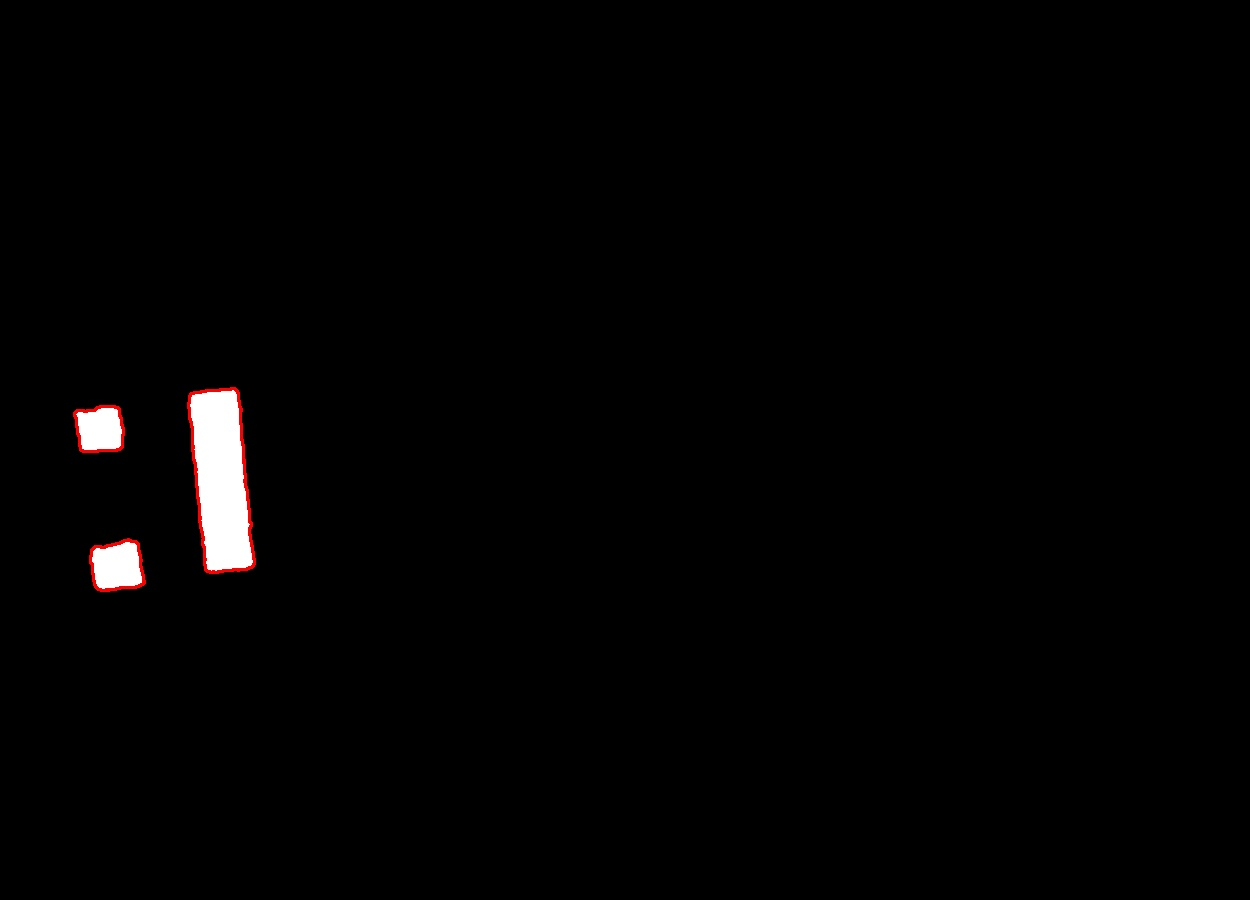
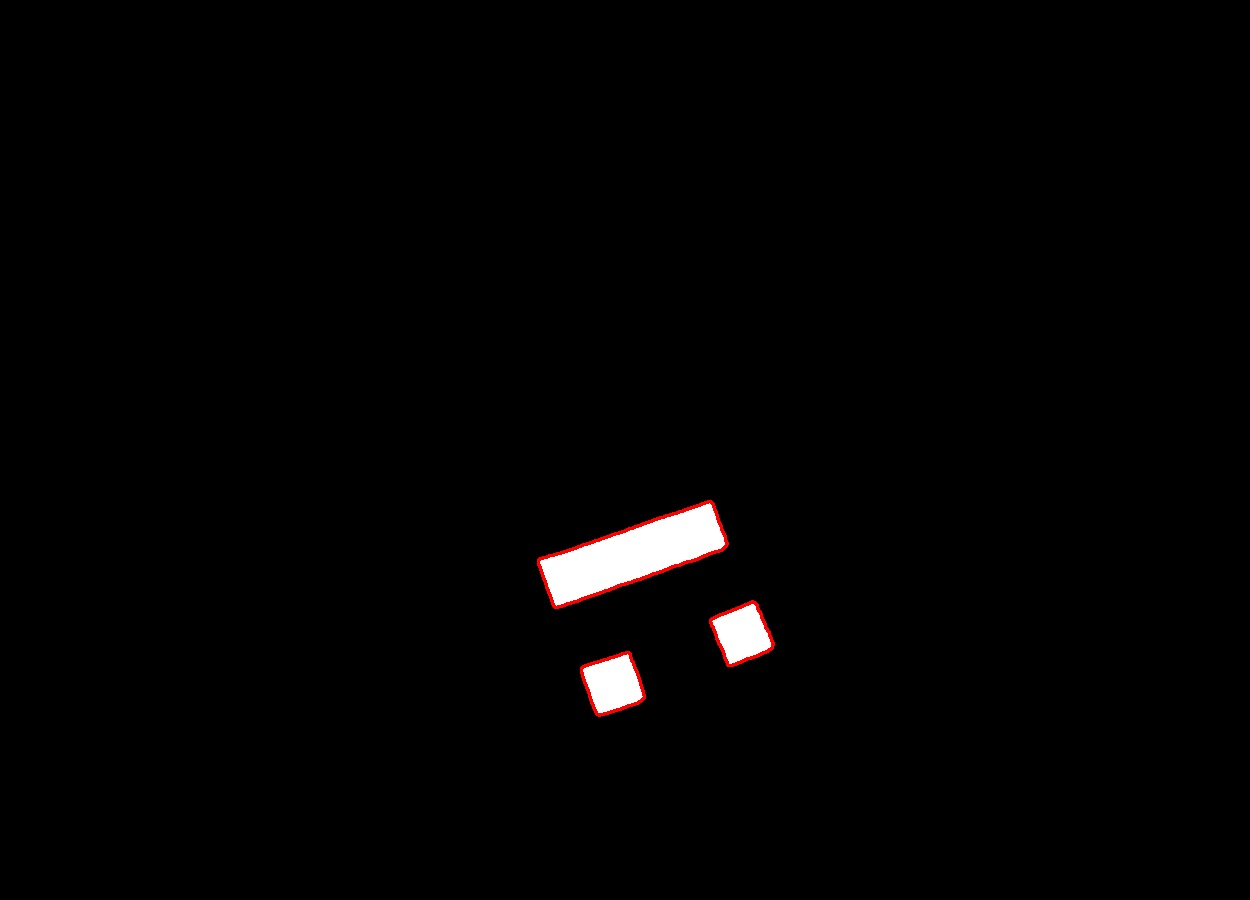
Logik er fikset til move_to_target og det virker nu (ish) der skal pilles ved noget threshold osv...

diff --git a/algorithm/move_to_target.py b/algorithm/move_to_target.py
@@ -39,7 +39,9 @@ def move_to_target(target_position):
     car = get_car_data_from_json(json_file_path)
     # Extract the current position from the car object
     current_x, current_y = car.x, car.y
-    
+    # add the x,y such that we go out to the pickup mechanism
+   
+
     # De-structure the target position
     target_x, target_y = target_position
     #print(f"Target_x = {target_x}\nTarget_y = {target_y}")
@@ -52,62 +54,78 @@ def move_to_target(target_position):
     comswallow = (0,0,0,1,0)
 
     # Move in the y direction
-    threshhold = 20
+    threshhold = 30
+    missing_length = 0
 
-    if current_y+125 < target_y - threshhold: #Hvis vores y er skarpt mindre end hvor vi skal hen-20 (hvilket burde resultere i at vi stopper cirka 20 pixels før.)
-    #vi skal altså op ad /\ (robot y er mindre end target, altså er robot tættere på 0,0)
-        if not((car.angle < 0+threshhold) or (car.angle > 360-threshhold)): #angle ligger ikke(mellem 340 og 20 grader (cirka 0)) 
-            print("desired angle: 340-20, actual:", car.angle)
-            publish_controller_data(comtiltright) #vi vender os mod højre
+    if not(((((current_y+missing_length)>(target_y-threshhold)) and ((current_y+missing_length)<(target_y+threshhold))) or (((current_y-missing_length)>(target_y-threshhold)) and ((current_y-missing_length)<(target_y+threshhold))))):
+        print("missing in y-level")
+        if current_y < target_y: #Hvis vores y er skarpt mindre end hvor vi skal hen-20 (hvilket burde resultere i at vi stopper cirka 20 pixels før.)
+        #vi skal altså op ad /\ (robot y er mindre end target, altså er robot tættere på 0,0)
+            if  not(((car.angle < (0+threshhold)) or (car.angle > (360-threshhold)))): #angle ligger ikke(mellem 340 og 20 grader (cirka 0)) 
+                print("desired angle: 340-20, actual:", car.angle)
+                publish_controller_data(comtiltright) #vi vender os mod højre
+                sleep(0.2)
+                publish_controller_data(comstop)
+                return 0
+            print("We should move farwards")
+            publish_controller_data(comforward) #vi rykker 0.15 i y-retningen (opad)
             sleep(0.2)
             publish_controller_data(comstop)
             return 0
-        print("We should move farwards")
-        publish_controller_data(comforward) #vi rykker 0.15 i y-retningen (opad)
-        sleep(0.2)
-        publish_controller_data(comstop)
-        return 0
-    elif current_y-125 > target_y + threshhold: #Hvis vores y er skarpt større end hvor vi skal hen+20 (hvilket burde resultere i at vi stopper cirka 20 pixels før.)
-    #vi skal altså ned ad \/ (robot y er større end target, altså er bold tættere på 0,0)
-        if not((car.angle>180-threshhold) or (car.angle<180+threshhold)): #angle ligger ikke(mellem 170 og 190 grader(cirka 180))
-            print("desired angle: 170-190, actual:", car.angle)
-            publish_controller_data(comtiltright) #vi vender tilføjer grader indtil vi er på 180
+        elif current_y > target_y: #Hvis vores y er skarpt større end hvor vi skal hen+20 (hvilket burde resultere i at vi stopper cirka 20 pixels før.)
+        #vi skal altså ned ad \/ (robot y er større end target, altså er bold tættere på 0,0)
+            if not(((car.angle > (180-threshhold)) and (car.angle < (180+threshhold)))): #angle ligger ikke(mellem 170 og 190 grader(cirka 180))
+                print("desired angle: 170-190, actual:", car.angle)
+                publish_controller_data(comtiltright) #vi vender tilføjer grader indtil vi er på 180
+                sleep(0.2)
+                publish_controller_data(comstop)
+                return 0
+            print("We should move farwards 180")
+            
+            publish_controller_data(comforward) #vi rykker 0.15 i y-retningen (opad)
             sleep(0.2)
             publish_controller_data(comstop)
             return 0
-        print("We should move farwards 78")
-        
-        publish_controller_data(comforward) #vi rykker 0.15 i y-retningen (opad)
-        sleep(0.2)
-        publish_controller_data(comstop)
+        print("overshooted in y-level")
         return 0
     
     # Move in the x direction
     # nu er vores angle cirka 0 eller cirka 180: (340-20 eller 160-200)
 
-    if current_x > target_x+threshhold: #så skal vi til venstre
-        if not((car.angle < 90+threshhold) or (car.angle > 90-threshhold)):
-            publish_controller_data(comtiltleft) #hvis vi peger opad ved 0 grader, skal vi bare tilte mod venstre
+    #if not((current_x>target_x+missing_length) or (current_x<target_x)):    
+    if not(((((current_x-missing_length)>(target_x+threshhold)) and ((current_x-missing_length)<(target_x-threshhold))) or (((current_x+missing_length)>(target_x-threshhold)) and ((current_x+missing_length)<(target_x+threshhold))))):
+        print("missing in x-level")
+        if current_x > target_x: #så skal vi til venstre
+            if not(((car.angle < (90+threshhold)) and (car.angle > (90-threshhold)))):
+                publish_controller_data(comtiltleft) #hvis vi peger opad ved 0 grader, skal vi bare tilte mod venstre
+                sleep(0.2)
+                publish_controller_data(comstop)
+                return 0
+            publish_controller_data(comforward)
             sleep(0.2)
             publish_controller_data(comstop)
             return 0
-        publish_controller_data(comforward)
-        sleep(0.2)
-        publish_controller_data(comstop)
-        return 0
-    #så skal vi til højre
-    elif current_x < target_x-threshhold:
-        if not((car.angle < 270+threshhold) or (car.angle > 270-threshhold)): #hvis car.angle ikke(er mellem 250 og 290 (cirka 270))
-            publish_controller_data(comtiltright) #hvis vi peger med næsen opad, skal vi tilte mod bilens højre
+        #så skal vi til højre
+        elif current_x < target_x:
+            if not((car.angle < (270+threshhold)) and (car.angle > (270-threshhold))): #hvis car.angle ikke(er mellem 250 og 290 (cirka 270))
+                publish_controller_data(comtiltright) #hvis vi peger med næsen opad, skal vi tilte mod bilens højre
+                sleep(0.2)
+                publish_controller_data(comstop)
+                return 0
+            publish_controller_data(comforward)
             sleep(0.2)
             publish_controller_data(comstop)
             return 0
-        publish_controller_data(comforward)
-        sleep(0.2)
-        publish_controller_data(comstop)
+        #nu er current_y = target_y, current_x = target_x
+        print("overshooted in x-level...")
         return 0
-    #nu er current_y = target_y, current_x = target_x
+        
+    print("we're here!")
     publish_controller_data(comswallow) #og så skal der nedsvælges
     sleep(0.2)
     publish_controller_data(comstop)
     return 1
+
+
+
+

diff --git a/picture/image_detection.py b/picture/image_detection.py
@@ -712,6 +712,7 @@ def find_carv2(image, output_image_path='output_image.jpg'):
     # Ensure we have exactly one back contour and two front contours
     if len(front_contours) != 2:
         print("car is goone")
+        return
         #raise ValueError("Could not find the required front squares and back rectangle in the image.")
     
     # Calculate the center of the bounding box for all contours

diff --git a/algorithm/algorithm.py b/algorithm/algorithm.py
@@ -77,6 +77,7 @@ def SortByDistance(RobotXY=LoadRobot(), BallsXY=LoadBalls(), OrangeBallXY = Load
     
     # Add the orange ball at the end
     SortedList.append(OrangeBallXY)
+    print(f"Shortest ball coordinat: [{SortedList[0]}]")
     return SortedList[0]
 
 

diff --git a/run.py b/run.py
@@ -26,7 +26,7 @@ def init():
 
     # for arena transform calibration
     image = camera_handler._run_video()
-    find_corners(image)
+    #find_corners(image)
     return camera_handler
 
 camera_handler = init()
